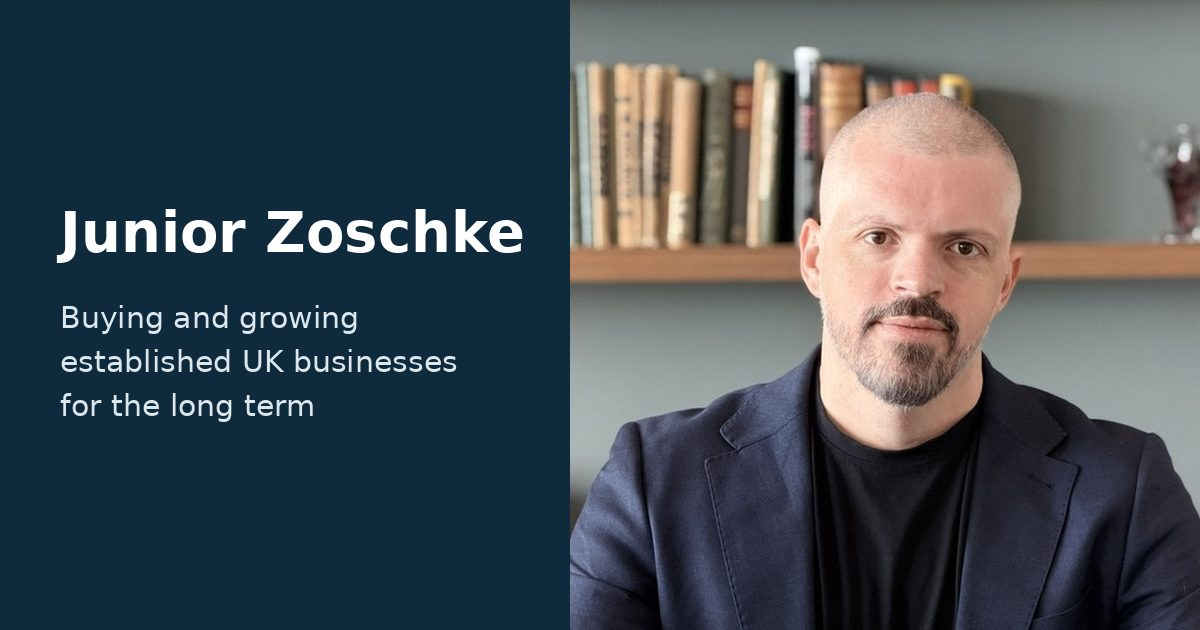
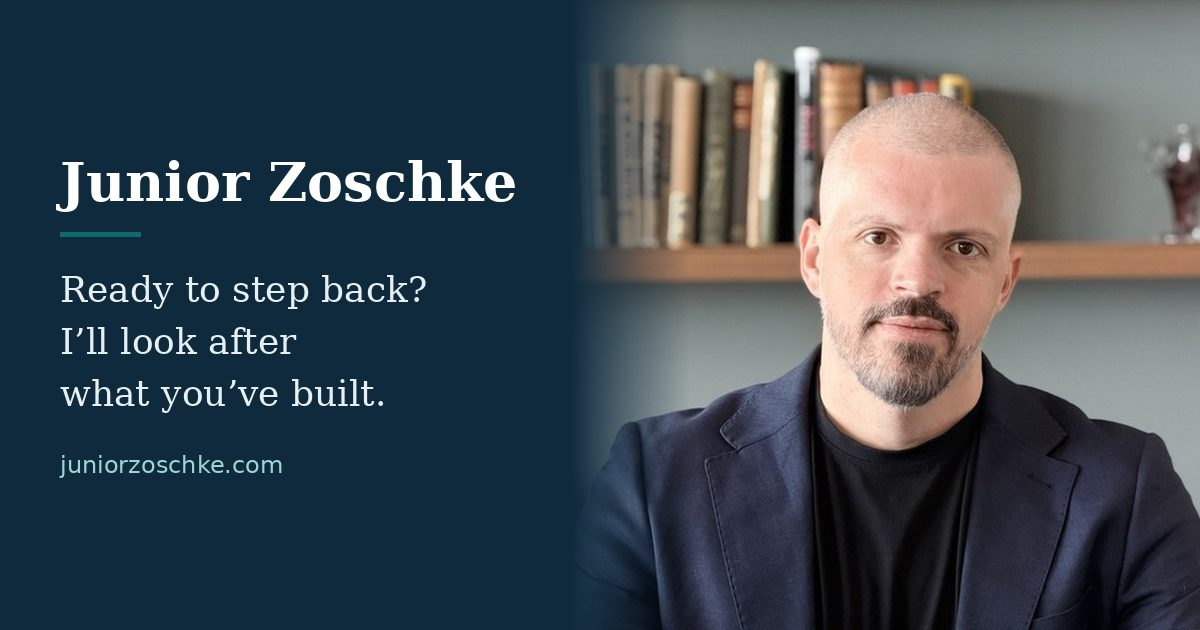
New seller-first tagline

Changed region(s): [[0.0308, 0.2413, 0.4317, 0.6635], [0.4625, 0.0, 0.5858, 1.0], [0.0308, 0.7238, 0.2467, 0.754]]

diff --git a/index.html b/index.html
@@ -4,7 +4,7 @@
 <meta charset="utf-8">
 <meta name="viewport" content="width=device-width, initial-scale=1">
 <title>Junior Zoschke | Buying and growing established UK businesses</title>
-<meta name="description" content="Junior Zoschke is a private buyer based in Woking, Surrey, buying established UK businesses and running them for the long term. Confidential, straightforward, and respectful of your team and legacy.">
+<meta name="description" content="Ready to step back? Junior Zoschke buys established UK businesses and keeps them running, with the same people and the same values. Confidential and straightforward.">
 <link rel="canonical" href="https://juniorzoschke.com/">
 <meta name="robots" content="index, follow">
 <meta name="theme-color" content="#0f2a3d">
@@ -12,7 +12,7 @@
 <meta property="og:site_name" content="Junior Zoschke">
 <meta property="og:locale" content="en_GB">
 <meta property="og:title" content="Junior Zoschke | Buying and growing established UK businesses">
-<meta property="og:description" content="A private buyer of established UK businesses, owning and growing them for the long term. Confidential and straightforward.">
+<meta property="og:description" content="Ready to step back? I’ll look after what you’ve built. I buy established UK businesses and keep them running, with the same people and the same values.">
 <meta property="og:url" content="https://juniorzoschke.com/">
 <meta property="og:image" content="https://juniorzoschke.com/og-image.jpg">
 <meta property="og:image:width" content="1200">
@@ -22,7 +22,7 @@
 <meta property="profile:last_name" content="Zoschke">
 <meta name="twitter:card" content="summary_large_image">
 <meta name="twitter:title" content="Junior Zoschke | Buying and growing established UK businesses">
-<meta name="twitter:description" content="A private buyer of established UK businesses, owning and growing them for the long term. Confidential and straightforward.">
+<meta name="twitter:description" content="Ready to step back? I’ll look after what you’ve built. I buy established UK businesses and keep them running, with the same people and the same values.">
 <meta name="twitter:image" content="https://juniorzoschke.com/og-image.jpg">
 <meta name="twitter:image:alt" content="Junior Zoschke">
 <link rel="icon" href="/favicon.svg" type="image/svg+xml">
@@ -37,7 +37,7 @@
   "url": "https://juniorzoschke.com/",
   "image": "https://juniorzoschke.com/junior-zoschke.jpg",
   "jobTitle": "Business owner and acquirer",
-  "description": "Private buyer of established UK businesses, owning and growing them for the long term.",
+  "description": "Buys established UK businesses and keeps them running, with the same people and the same values.",
   "telephone": "+447868780098",
   "address": {
     "@type": "PostalAddress",
@@ -93,7 +93,7 @@ section{padding:clamp(3rem,7vw,5.5rem) 0}
 .hero{background:linear-gradient(135deg,#0f2a3d 0%,#0e4a58 60%,#0d6b6e 100%);color:#fff;padding:clamp(3rem,8vw,6rem) 0}
 .hero .wrap{display:grid;grid-template-columns:1fr;gap:2.25rem;align-items:center}
 .hero h1{color:#fff;font-size:clamp(2.3rem,6vw,3.6rem);margin-bottom:.5rem}
-.hero .tagline{font-family:var(--serif);font-size:clamp(1.25rem,2.6vw,1.6rem);color:#e7f0f3;margin-bottom:1rem;line-height:1.35}
+.hero .tagline{text-wrap:balance;font-family:var(--serif);font-size:clamp(1.25rem,2.6vw,1.6rem);color:#e7f0f3;margin-bottom:1rem;line-height:1.35}
 .hero .lede{color:#d3e2e8;max-width:36rem;font-size:1.1rem}
 .photo{justify-self:center;width:min(220px,60vw);order:-1}
 .photo img{border-radius:50%;border:5px solid rgba(255,255,255,.9);box-shadow:0 18px 40px rgba(0,0,0,.28);aspect-ratio:1/1;object-fit:cover;width:100%}
@@ -190,8 +190,8 @@ footer a{color:#dbe7ee}
       <div>
         <p class="eyebrow eyebrow-light">Private business buyer · Woking, Surrey</p>
         <h1 id="hero-title">Junior Zoschke</h1>
-        <p class="tagline">Buying and growing established UK businesses for the long term</p>
-        <p class="lede">I buy established businesses from owners who are ready to step back, and I run them for the long term, keeping the name, the team and the reputation you have built.</p>
+        <p class="tagline">Ready to step back? I’ll look after what you’ve built.</p>
+        <p class="lede">I buy established UK businesses and keep them running, with the same people and the same values.</p>
         <div class="actions">
           <a class="btn btn-primary" href="#contact">
             <svg aria-hidden="true" viewBox="0 0 24 24" fill="none" stroke="currentColor" stroke-width="2"><rect x="3" y="5" width="18" height="14" rx="2"/><path d="m3 7 9 6 9-6"/></svg>
